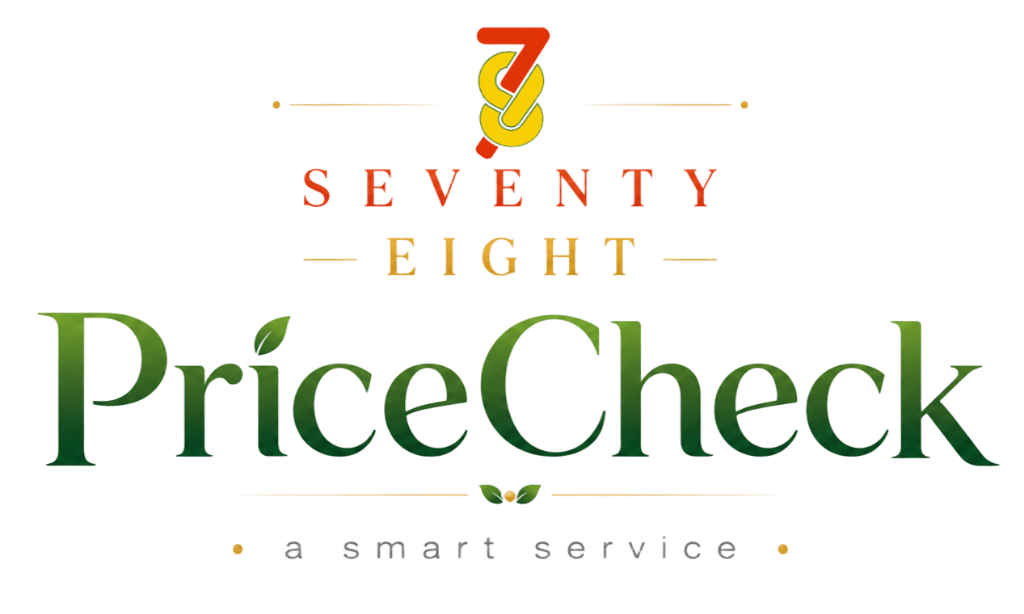
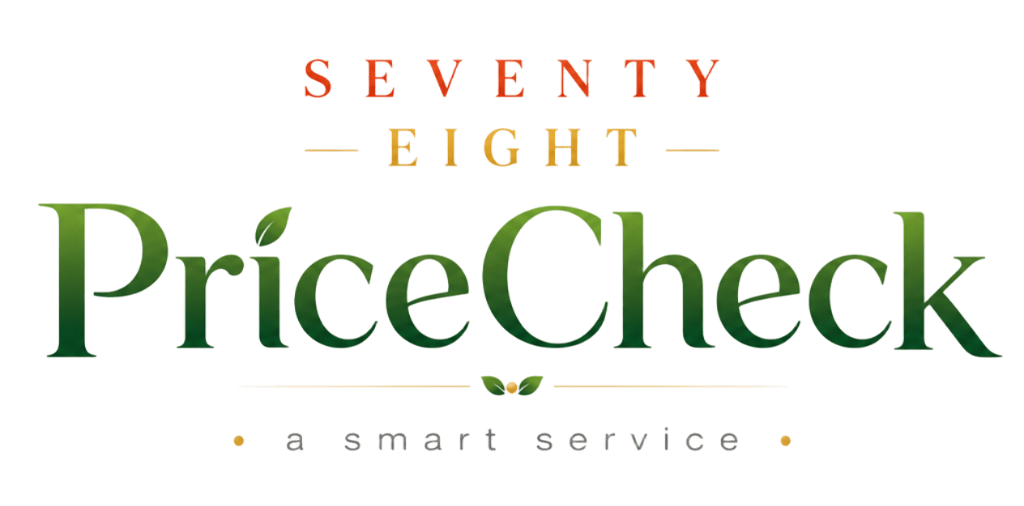
Experience: Overwrite brand.png with new wide identity image and adjust CSS to stretch to bounds

diff --git a/frontend/customer/css/customer.css b/frontend/customer/css/customer.css
@@ -233,13 +233,13 @@ html, body {
 
 /* Row 2: Brand Identity inside wireframe */
 .welcome-brand-img {
-  width: auto;
-  max-width: 96%;
+  width: 99%;
   height: auto;
-  max-height: 94%;
+  max-height: 98%;
   object-fit: contain;
   display: block;
   border: none;
+  margin: 0 auto;
 }
 
 /* Row 3: Scan button size requirements */